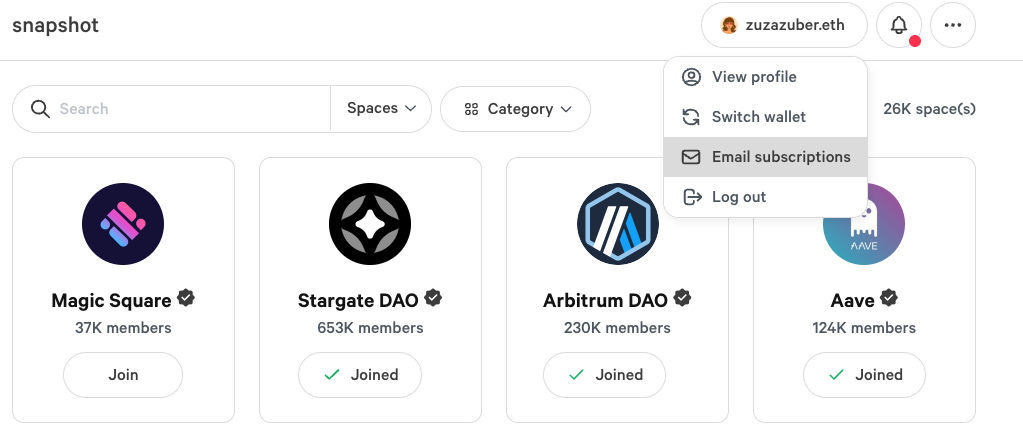
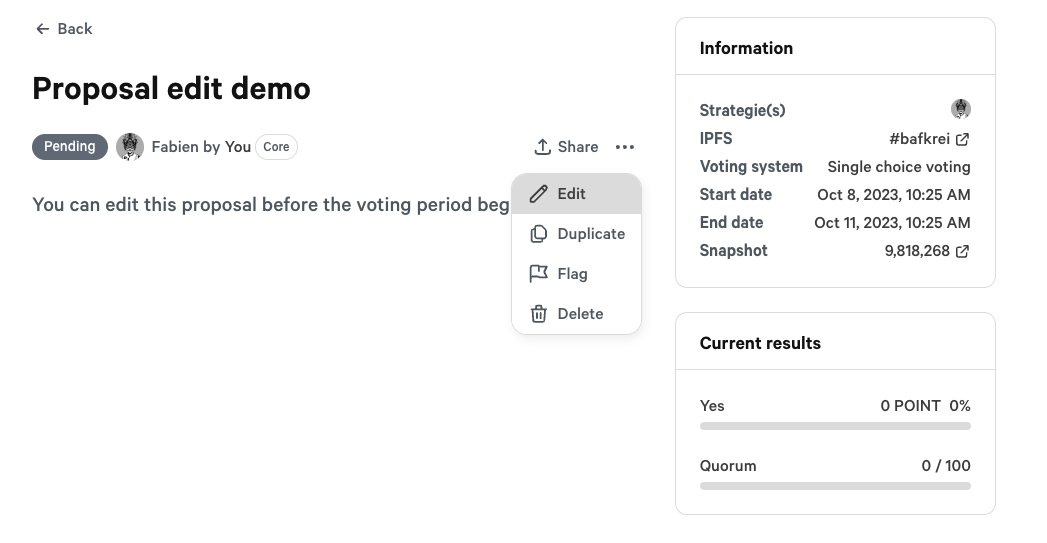
GITBOOK-449: Space hibernation

diff --git a/user-guides/spaces/space-hibernation.md b/user-guides/spaces/space-hibernation.md
@@ -1,0 +1,31 @@
+---
+description: >-
+  Read more to learn about space hiberation, why spaces get hibernated, and how
+  to activate them.
+---
+
+# Space hibernation
+
+Space Hibernation is placing **inactive** or **incorrectly** **configured** spaces into hibernation mode. This process aims to enhance the user experience.
+
+Space Controller and admins will see this warning message if space has gone into hibernation mode:
+
+<figure><img src="../../.gitbook/assets/image.png" alt=""><figcaption></figcaption></figure>
+
+
+
+#### When does a Space hibernate?
+
+A space will automatically enter hibernation mode if it meets any of the following conditions:
+
+* Inactivity for the past **6 months**.
+
+#### Implications of Hibernation
+
+Once a space is in hibernation mode it is impossible to create new proposals.
+
+#### Reactivating a Space
+
+Navigate to the space settings and click "Reactivate space" at the top of the page.
+
+<figure><img src="../../.gitbook/assets/image (1).png" alt=""><figcaption></figcaption></figure>

diff --git a/faq.md b/faq.md
@@ -411,6 +411,22 @@ Verification status is valid as long as the space meets all requirements. Make s
 
 </details>
 
+<details>
+
+<summary>My space is hibernated. Why?</summary>
+
+Spaces are put in hibernation mode after 6 months of inactivity. To learn more head to [space-hibernation.md](user-guides/spaces/space-hibernation.md "mention")
+
+</details>
+
+<details>
+
+<summary>How can I get my space out of hibernation?</summary>
+
+As a space controller or an admin you can reactive the space through the space settings by clicking `Reactivate space` button. More information can be found in [space-hibernation.md](user-guides/spaces/space-hibernation.md "mention")
+
+</details>
+
 ### Voting strategies
 
 <details>

diff --git a/user-guides/proposals/edit-a-proposal.md b/user-guides/proposals/edit-a-proposal.md
@@ -8,5 +8,5 @@ As a proposal **author** you are able to edit its details before the voting peri
 
 In order to edit the proposal click the three dots next to
 
-<figure><img src="../../.gitbook/assets/image.png" alt=""><figcaption><p>The screenshot was taken on October 6th, 2023 - two days before the voting period has started.</p></figcaption></figure>
+<figure><img src="../../.gitbook/assets/image (2).png" alt=""><figcaption><p>The screenshot was taken on October 6th, 2023 - two days before the voting period has started.</p></figcaption></figure>
 

diff --git a/SUMMARY.md b/SUMMARY.md
@@ -26,6 +26,7 @@
   * [Settings](user-guides/spaces/settings.md)
   * [Sub-spaces](user-guides/spaces/sub-spaces.md)
   * [Space verification](user-guides/spaces/get-verified.md)
+  * [Space hibernation](user-guides/spaces/space-hibernation.md)
   * [Add a custom domain](user-guides/spaces/add-custom-domain.md)
   * [Add a skin](user-guides/spaces/add-skin.md)
   * [Space roles](user-guides/spaces/space-roles.md)
